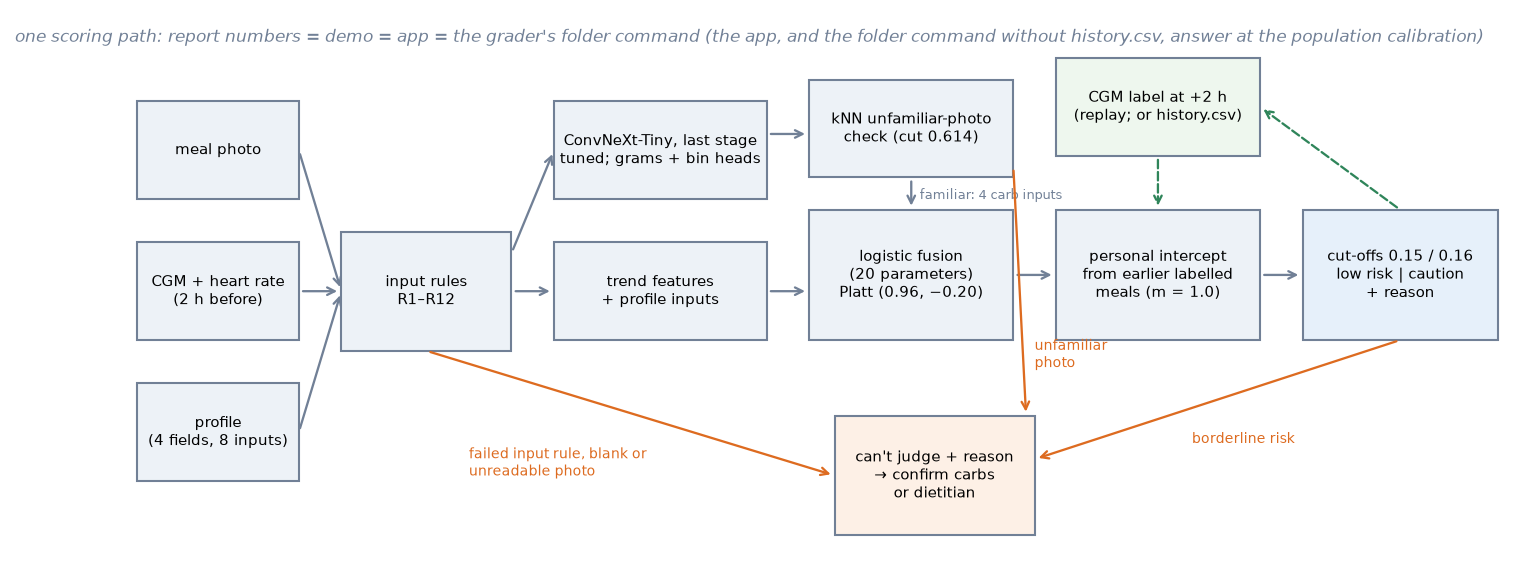
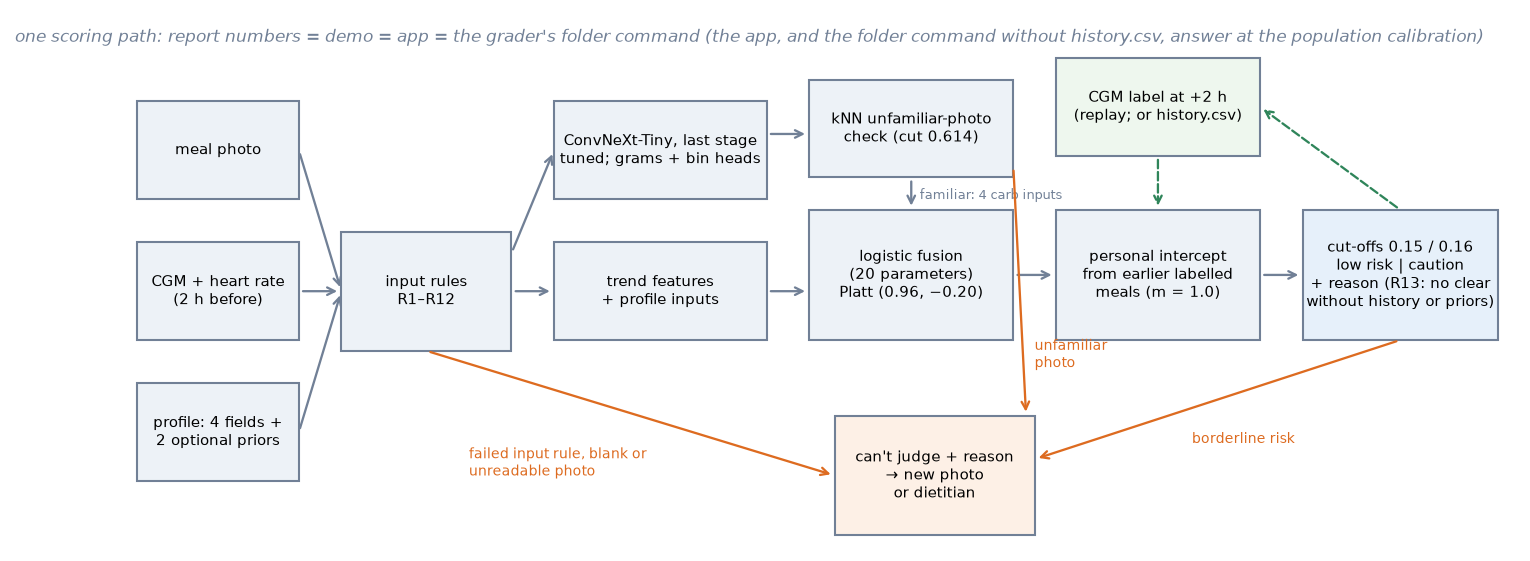
Rule R13: no low risk without history or onboarding priors (output rule, no artifact change); F1 labels
Claude-Session: https://claude.ai/code/session_01U1MwL7j11MLBZ4KUvxGUHV

Changed region(s): [[0.8601, 0.4242, 0.983, 0.5455], [0.0922, 0.7273, 0.1843, 0.8182], [0.5837, 0.8182, 0.6451, 0.8788]]

diff --git a/tests/test_serve.py b/tests/test_serve.py
@@ -272,7 +272,8 @@ def test_decision_parity_with_the_vectorised_rule():
     Pipeline.answer give the same decision meal by meal on clean inputs, across the whole risk range."""
     for risk in (0.05, 0.142, 0.143, 0.17, 0.2, 0.45, 0.95):
         p = bare_pipeline(risk=risk, table={0: _est()})
-        a = p.answer(MealInput(meal_time=MEAL, profile=PROFILE, **flat_cgm()), key=0)
+        priors = {**PROFILE, "prior_spike_rate": 0.3, "prior_rise": 40.0}  # R13 needs a personal basis to clear
+        a = p.answer(MealInput(meal_time=MEAL, profile=priors, **flat_cgm()), key=0)
         vec = "low risk" if a.risk < p.lo else "caution" if a.risk >= p.hi else "can't judge"
         assert a.decision == vec, (risk, a.decision, vec)
 
@@ -287,3 +288,18 @@ def test_serving_bundle_calibration_reaches_the_risk_path(tmp_path, monkeypatch)
     hist = [(0.3, 1), (0.1, 0)]
     a, b = injected.answer(m, key=7, history=hist), served.answer(m, key=7, history=hist)
     assert a.risk == b.risk and a.risk_platt == b.risk_platt and a.risk_raw == b.risk_raw
+
+
+def test_r13_withholds_low_risk_without_history_or_priors():
+    """Rule R13 end to end on the bare pipeline: the same low risk is cleared with priors or with history,
+    and referred (can't judge, named reason, risk kept) without either. Caution answers are untouched."""
+    p = bare_pipeline(risk=0.05, table={0: _est()})
+    bare = p.answer(MealInput(meal_time=MEAL, profile=PROFILE, **flat_cgm()), key=0)
+    assert bare.decision == "can't judge" and "rule R13" in bare.reason and bare.risk == 0.05
+    assert bare.checks_failed == ["personal_basis"] and bare.escalate_to == "human"
+    priors = {**PROFILE, "prior_spike_rate": 0.3, "prior_rise": 40.0}
+    assert p.answer(MealInput(meal_time=MEAL, profile=priors, **flat_cgm()), key=0).decision == "low risk"
+    hist = p.answer(MealInput(meal_time=MEAL, profile=PROFILE, **flat_cgm()), key=0, history=[(-2.0, 0)])
+    assert hist.decision == "low risk"
+    high = bare_pipeline(risk=0.45, table={0: _est()})
+    assert high.answer(MealInput(meal_time=MEAL, profile=PROFILE, **flat_cgm()), key=0).decision == "caution"

diff --git a/src/glimpse/figures.py b/src/glimpse/figures.py
@@ -38,15 +38,22 @@ def f1_system(plt) -> None:
 
     box(0.0, 3.0, 1.9, 0.9, "meal photo")
     box(0.0, 1.7, 1.9, 0.9, "CGM + heart rate\n(2 h before)")
-    box(0.0, 0.4, 1.9, 0.9, "profile\n(4 fields, 8 inputs)")
+    box(0.0, 0.4, 1.9, 0.9, "profile: 4 fields +\n2 optional priors")
     box(2.4, 1.6, 2.0, 1.1, "input rules\nR1\u2013R12")
     box(4.9, 3.0, 2.5, 0.9, "ConvNeXt-Tiny, last stage\ntuned; grams + bin heads")
     box(4.9, 1.7, 2.5, 0.9, "trend features\n+ profile inputs")
     box(7.9, 3.2, 2.4, 0.9, "kNN unfamiliar-photo\ncheck (cut 0.614)")
     box(7.9, 1.7, 2.4, 1.2, "logistic fusion\n(20 parameters)\nPlatt (0.96, \u22120.20)")
     box(10.8, 1.7, 2.4, 1.2, "personal intercept\nfrom earlier labelled\nmeals (m = 1.0)")
-    box(13.7, 1.7, 2.3, 1.2, "cut-offs 0.15 / 0.16\nlow risk | caution\n+ reason", fc="#e6f0fa")
-    box(8.2, -0.1, 2.35, 1.1, "can't judge + reason\n\u2192 confirm carbs\nor dietitian", fc="#fdf0e6")
+    box(
+        13.7,
+        1.7,
+        2.3,
+        1.2,
+        "cut-offs 0.15 / 0.16\nlow risk | caution\n+ reason (R13: no clear\nwithout history or priors)",
+        fc="#e6f0fa",
+    )
+    box(8.2, -0.1, 2.35, 1.1, "can't judge + reason\n\u2192 new photo\nor dietitian", fc="#fdf0e6")
     box(10.8, 3.4, 2.4, 0.9, "CGM label at +2 h\n(replay; or history.csv)", fc="#eef7ee")
     ax.text(12.4, 0.75, "borderline risk", fontsize=6.8, color=ORANGE)
     ax.text(3.9, 0.45, "failed input rule, blank or\nunreadable photo", fontsize=6.8, color=ORANGE)

diff --git a/tests/test_report_numbers.py b/tests/test_report_numbers.py
@@ -308,7 +308,8 @@ def test_status_table_timing_cusum_and_what_if(text, rm):
     sp = rm["served_imputed_priors"]
     row = t["no history and no onboarding priors (the samples' path; dev, approximate)"][2]
     assert row == (f"AUROC {sp['auroc']:.3f}; {sp['share_low_risk'] * 100:.1f}% cleared, {sp['n_missed']} of "
-                   f"{sp['n_cleared']} spike; cost {_pct(sp['cost_reduction'])} / –")  # fmt: skip
+                   f"{sp['n_cleared']} spike; cost {_pct(sp['cost_reduction'])} / –; with rule R13: 0 cleared, "
+                   f"{_pct(sp['with_rule_r13']['cost_reduction'])}")  # fmt: skip
     pc = _load("outputs/probes/probe_c.json")
     assert all(v["expected_direction_met"] for v in pc["inputs"].values())
     ip = pc["imputed_priors"]
@@ -374,3 +375,10 @@ def test_locked_decisions_follow_the_current_cut_off_rule():
     has = la.risk.notna()
     redecided = [decision(float(r), th["low_risk_below"], th["caution_from"]) for r in la.risk[has]]
     assert redecided == la.decision[has].tolist()
+
+
+def test_r13_cells(text, rm):
+    sp = rm["served_imputed_priors"]["with_rule_r13"]
+    assert sp["share_low_risk"] == 0
+    assert f"{sp['share_abstain'] * 100:.1f}% can't judge" in text
+    assert f"with rule R13: 0 cleared, {_pct(sp['cost_reduction'])}" in text

diff --git a/src/glimpse/serve/rules.py b/src/glimpse/serve/rules.py
@@ -72,6 +72,24 @@ def decision_reason(dec: str, risk: float, lo: float, hi: float) -> str:
     return f"risk {risk:.1%} is at or above the caution cut-off {hi:.0%}"
 
 
+PRIORS = ("prior_spike_rate", "prior_rise")
+
+
+def no_basis_to_clear(dec: str, history, profile: dict[str, float]) -> str | None:
+    """Rule R13 (26 Nov): a low-risk answer needs a personal basis, either earlier labelled meals (history)
+    or onboarding priors. Without both the risk is the population calibration alone, which on development
+    cleared 11% of meals with 16% of them spiking; such a meal is not cleared but referred, with this reason.
+    Returns the reason, or None when the rule does not apply. Changes no risk, weight or cut-off."""
+    if dec != "low risk" or history:
+        return None
+    if all(math.isfinite(float(profile.get(k, float("nan")))) for k in PRIORS):
+        return None
+    return (
+        "not cleared: no earlier labelled meals and no onboarding priors, so the risk rests on the "
+        "population alone (rule R13); add a history.csv or the onboarding priors, or ask a dietitian"
+    )
+
+
 def sentence(dec: str, risk: float | None, reason: str) -> str:
     """Plain words for the user."""
     if dec == "low risk":

diff --git a/tests/test_hardening.py b/tests/test_hardening.py
@@ -126,3 +126,17 @@ def test_window_reason_names_only_the_failing_criteria():
     assert reason == "glucose data incomplete: a gap of 35 min (max 20)"
     w = SimpleNamespace(values=np.full(24, 110.0), readings_last_30min=1, coverage=0.04, max_gap_min=115.0)
     assert window_problem(w, cfg).count("need") == 2 and "max 20" in window_problem(w, cfg)
+
+
+def test_r13_no_low_risk_without_history_or_priors():
+    """Rule R13 (26 Nov): low risk needs history or both onboarding priors; otherwise the meal is referred."""
+    from glimpse.serve.rules import no_basis_to_clear
+
+    bare = {"age": 45.0, "bmi": 28.0}
+    with_priors = {**bare, "prior_spike_rate": 0.3, "prior_rise": 40.0}
+    assert "rule R13" in no_basis_to_clear("low risk", None, bare)
+    assert "rule R13" in no_basis_to_clear("low risk", [], {**bare, "prior_spike_rate": 0.3})
+    assert "rule R13" in no_basis_to_clear("low risk", None, {**with_priors, "prior_rise": float("nan")})
+    assert no_basis_to_clear("low risk", None, with_priors) is None
+    assert no_basis_to_clear("low risk", [(-0.5, 1)], bare) is None
+    assert no_basis_to_clear("caution", None, bare) is None

diff --git a/src/glimpse/evaluation/report_metrics.py b/src/glimpse/evaluation/report_metrics.py
@@ -314,6 +314,17 @@ def served_imputed_priors(cfg, dev: pd.DataFrame, costs: dict) -> dict:
     risk[has] = 1 / (1 + np.exp(-lg))
     y = dev.spike.to_numpy().astype(int)
     out = _served(dev, risk, lo, hi, costs, cfg.targets.model_dump())
+    # rule R13 (26 Nov): no history and no priors -> a low-risk answer becomes can't judge
+    from glimpse.evaluation.metrics import usefulness_report
+    from glimpse.serve.rules import decision
+
+    dec = dev.decision.copy()
+    dec[has] = [decision(float(r), lo, hi) for r in risk[has]]
+    dec[dec == "low risk"] = "can't judge"
+    r13 = usefulness_report(dec.map(ACTION).to_numpy(), dev.spike.to_numpy().astype(int), costs,
+                            cfg.targets.model_dump())  # fmt: skip
+    out["with_rule_r13"] = {k: r13[k] for k in ("share_low_risk", "share_caution", "share_abstain", "cost",
+                                                "cost_reduction")}  # fmt: skip
     out.update(
         {
             "auroc": float(roc_auc_score(y[has], risk[has])),

diff --git a/src/glimpse/serve/pipeline.py b/src/glimpse/serve/pipeline.py
@@ -27,6 +27,7 @@ from glimpse.serve.rules import (
     decision,
     decision_reason,
     knn_distance,
+    no_basis_to_clear,
     photo_problem,
     profile_vector,
     sentence,
@@ -212,6 +213,10 @@ class Pipeline:
                               risk=risk, checks_passed=passed, checks_failed=["borderline"],
                               escalate_to="human", **base, **carb)  # fmt: skip
         passed.append("borderline")
+        hold = no_basis_to_clear(dec, history, m.profile)
+        if hold:  # rule R13: no low risk on the population calibration alone
+            return cant_judge(hold, risk=risk, checks_passed=passed, checks_failed=["personal_basis"],
+                              escalate_to="human", **base, **carb)  # fmt: skip
         reason = decision_reason(dec, risk, self.lo, self.hi)
         return Answer(decision=dec, sentence=sentence(dec, risk, reason), reason=reason, risk=risk,
                       checks_passed=passed, **base, **carb)  # fmt: skip

diff --git a/docs/final_report.md b/docs/final_report.md
@@ -21,7 +21,7 @@ samples are, clears 11% of development meals and 16% of those spike (§4). The n
 | ECE, registered bins (target ≤ 0.05) | 0.052: not assessable, a perfectly calibrated model's median here | 0.061, below that median (0.094); the one-shot record gave 0.098 equal-mass | 0.023 / 0.162 |
 | usefulness targets (protocol labels) | 1 met (can't judge), 3 on track: intervals cross | not met (at risk): 3 of 4 miss | not met: 2 of 4 miss / 2 of 4 miss |
 | spikes among cleared meals (cap 10%) | 7.3% (2.9–14.2%) | 2 of 10 (exact 2.5–55.6%; person bootstrap 0–100%) | 9.6% / 21.9% |
-| no history and no onboarding priors (the samples' path; dev, approximate) | – | – | AUROC 0.637; 11.4% cleared, 9 of 55 spike; cost −1.5% / – |
+| no history and no onboarding priors (the samples' path; dev, approximate) | – | – | AUROC 0.637; 11.4% cleared, 9 of 55 spike; cost −1.5% / –; with rule R13: 0 cleared, −0.3% |
 | robustness | flips between low risk and caution ≤1.8% at every registered level; 3.7% without heart rate | – | – |
 | monitoring | photo drift fires only on a synthetic week; the outcome rule is too noisy | no rule cleanly catches the cohort shift | – |
 
@@ -43,7 +43,7 @@ which the evaluation replays in deployment order. An optional `history.csv` per 
 answers' fusion logits and CGM labels) now feeds it through the same two-hour gate; the samples carry
 none. A profile without onboarding priors (every instructor case) gets training medians drawn from all 37
 non-locked people, type 2 diabetes included (spike rate 0.455, rise 48 mg/dL). Tooling: uv
-+ Python 3.14 (locked), strict Pydantic throughout, a `just` recipe for every number, 170 tests in CI (153 run without the dataset or weights; 16 skip, 1 expected failure),
++ Python 3.14 (locked), strict Pydantic throughout, a `just` recipe for every number, 173 tests in CI (156 run without the dataset or weights; 16 skip, 1 expected failure),
 W&B offline runs replayed from the committed training histories, and a git history (from 2 Nov; earlier
 ordering in the dated design docs) in which every pre-registration precedes its run.
 
@@ -265,14 +265,15 @@ far over its cap; at twice it, savings fall to 3.1% and missed-among-cleared ris
 *Served = the deployed cut-offs on the Platt-only risk, recomputed from the committed answers (dev: per-fold models; locked: frozen Platt on the frozen fusion's raw risk); nothing refitted or rescored. outputs/report_metrics/report_metrics.json (decisions, errors, served_operating_point, served_imputed_priors, share_cis), outputs/figures/figures.json (the dev miss interval), outputs/locked_eval/locked_summary.json.*
 
 In plain terms: of every 100 development meals the evaluated system (with history) clears 22.7, flags 63.6 and declines 13.7; of the
-cleared, about 7 still spike, visible to a dietitian since the CGM reports every outcome. Only 17 people
+cleared, about 7 still spike. Only 17 people
 had cleared meals, so the miss interval's upper end exceeds the cap; the 8 misses spread across 6 people. The frozen band (0.15, 0.16) is one point wide. On the locked cohort, where
 risks ran higher, 139 of 153 meals landed above it: a dietitian would see nearly every meal flagged, and
 always flagging is then the cheaper policy.
 Without history the served point (last column) fails two targets on development and misses 7 of 32 clears
 on the locked eight. The samples also lack onboarding priors: filled with the serving medians (development,
 frozen coefficients standing in for the fold models'), AUROC drops to 0.637 and 9 of 55 cleared meals
-spike, costlier than always flagging. Without history and priors no meal should be cleared. Abstention
+spike, costlier than always flagging. Rule R13 (26 Nov, after the locked run) therefore refers such meals
+instead of clearing them: no misses, 17.3% can't judge, the cost of always flagging. Abstention
 does not pay here. Deciding the 45 borderline development meals would have cost less (0.539 against 0.555
 per answered meal): they spiked at 27%, above the 20% at which abstaining beats caution at the declared
 prices, because risks just above the low cut are under-predicted. Abstaining on the meals closest to the
@@ -300,7 +301,7 @@ and a misstated meal time are steps by design. Flips between low risk and cautio
 below 1.8% at every level; with heart rate missing, 3.7%, the worst case. All stress runs use the
 no-history per-fold pipelines. The 23 hostile inputs (timezone offsets, malformed JSON, binary CSVs,
 broken photos, empty folders) give zero crashes; five refuse on a placeholder photo after parsing their CSV
-stressor. R1-R5 and R8-R12 were each added against an observed failure; tests enforce them.
+stressor. R1-R5 and R8-R13 were each added against an observed failure; tests enforce them.
 
 | monitoring signal (docs/monitoring.md) | demonstration | result |
 |---|---|---|
@@ -390,7 +391,7 @@ in-sample clears from 68 to 46 (outputs/probes/probe_c.json).
 Probe A: risk moves in the photo's direction on 100% of meals, which a linear fusion guarantees (a
 wiring check, not learning), yet the extreme bottom↔top-decile plate swap leaves 68.5% of decisions unchanged (median swing 0.102), as pre-committed: the gate's verdict seen
 mechanistically. R7 (rule ledger): the kNN check measures visual, not nutritional, familiarity. A local
-lamb-and-rice dish (instructor case 11) scores 0.318 against the 0.614 cut (more familiar than the clean tuna bowl at 0.406)
+lamb-and-rice dish (instructor case 11) scores 0.318 against the 0.614 cut
 and gets a confident wrong carb bin; the sweep under a ≤2% false-flag budget shows no threshold fixes it.
 The confirm-carbs tier is unwired, so the fix is a nutrition-aware embedding (future work).
 
@@ -447,7 +448,7 @@ regulatory review, built so that a clinical study could evaluate it.
 |---|---|
 | RQ1, RQ2 | the proposal's questions: does the photo match true logged carbs (RQ1); does a from-scratch CNN beat hand-made trend features (RQ2) |
 | D1-D8 | dated design decisions in docs/final_design.md (D7: the gate's endpoints; D8: the exact-macro exclusion test) |
-| R1-R12 | input rules in docs/rule_ledger.md: R1-R5 and R8-R12 added after observed failures, R6 a preventive check, R7 a recorded limitation |
+| R1-R13 | rules in docs/rule_ledger.md (R13 acts on the output: no low risk without history or priors): R1-R5 and R8-R13 added after observed failures, R6 a preventive check, R7 a recorded limitation |
 | T1-T8 | failure classes (§5) |
 | partition v2 | the final split: 23 development people in 5 outer folds, 14 T2D training-only, 8 locked |
 | cgm_auto | the CGM's own label at +2 h, the training spike rule |

diff --git a/docs/model_card.md b/docs/model_card.md
@@ -12,7 +12,8 @@ device. Not for type 1 diabetes, insulin dosing or treatment decisions. No claim
 those participants were used for training only.
 
 **Parts.** The model artifacts were frozen 6 Nov under a pre-registered procedure; the input rules gained R11 (8 Nov, with additions on 25 and 26 Nov) and R12 (26 Nov), which change wording and refusals, not risks.
-- Input rules R1-R12 run first and refuse with a named reason (docs/rule_ledger.md).
+- Input rules R1-R12 run first and refuse with a named reason; output rule R13 withholds low risk without
+  history or priors (docs/rule_ledger.md).
 - Photo: ConvNeXt-Tiny (ImageNet-22k pre-trained, 1k fine-tuned; pinned revision and SHA-256), last stage
   fine-tuned, two heads (grams, 4 carb bins); 27.8M parameters, 15.5M fine-tuned. It did not pass its
   pre-registered risk gate (+0.025 AUROC, −0.010 to +0.061), yet its estimate is 4 of the fusion's 19
@@ -25,8 +26,8 @@ those participants were used for training only.
   without it, and in the app, answers use the population calibration (Platt only). Without history,
   development clears 15.2% of meals with 9.6% of them spiking (cost reduction 8.7%), failing two targets. A
   profile without onboarding priors (every sample) gets the training medians (0.455, 48 mg/dL); with that
-  too, approximated on development, AUROC is 0.637 and 9 of 55 cleared meals spike (cost −1.5%): do not
-  clear meals without history and priors.
+  too, approximated on development, AUROC is 0.637 and 9 of 55 cleared meals spike (cost −1.5%), so rule
+  R13 (26 Nov) answers can't judge instead of low risk when there is neither history nor both priors.
 - SensorCNN (5,217 parameters, from scratch) is evaluated, not deployed: it ties the trend features.
 
 **Training data.** CGMacros v1.0.0 (PhysioNet, CC BY-NC-SA 4.0): 37 non-locked adults (23 healthy or

diff --git a/docs/rule_ledger.md b/docs/rule_ledger.md
@@ -147,5 +147,18 @@ reading at or below zero refuses first, with "a glucose reading is zero or negat
 The decision (can't judge) is unchanged; only the advice changes. The committed stress run keeps the old text.
 Same day, wording only: an incomplete-window refusal now names only the criteria that failed.
 
+## R13 - no low risk without a personal basis (26 Nov, after the locked run; an output rule)
+Observed: the samples carry neither history nor onboarding priors. Recomputed on development (frozen
+fusion's prior coefficients standing in for the fold models; report_metrics.json `served_imputed_priors`),
+that path clears 11.4% of meals and 9 of the 55 spike (16.4%, over the 10% cap), costing more than always
+flagging. Rule: a low-risk answer with no earlier labelled meals and either onboarding prior missing becomes
+can't judge, with a reason naming what would allow a clear (a history.csv, the priors) and a referral.
+Before/after on the same approximation: clears 55 -> 0, misses 9 -> 0, can't judge 5.8% -> 17.3%, cost
+reduction -1.5% -> -0.3%. No risk, weight, Platt map or cut-off changes; the evaluated (with-history) and
+locked answers all carry priors, so no reported decision changes (a test re-decides the locked answers).
+Before (a no-prior, no-history meal at risk 0.12): "low risk". After: "can't judge: not cleared: no earlier
+labelled meals and no onboarding priors ... (rule R13)". Unit test: tests/test_hardening.py. Not run end
+to end with the weights on this machine; the committed folder, stress and demo runs predate it.
+
 Provenance note (26 Nov): commit hashes cited above for R1-R7 (4c72a62, 5e01186, 71abb13) predate the 2 Nov squash
 and do not resolve in this repository; the dated ledger text is the record for those rules.

diff --git a/docs/changelog.md b/docs/changelog.md
@@ -158,3 +158,5 @@ author's standing instruction, not approved one by one.
 | Promised comparisons table (class weighting, label threshold, masked photo); served-decision CUSUM row; "trend + profile LR" naming; dev verdict "1 met, 3 on track"; T1 count 7 of 13; "evaluated system (with history)"; 150 scored locked meals; locked path "at the tag" | omissions and inconsistencies (1-3 of 3) | report §3-§6 |
 | Test: today's decision function reproduces every committed locked decision at the frozen cut-offs (nothing rescored) | the post-tag serving changes needed a check against the locked answers (1 of 3) | tests/test_report_numbers.py |
 | R7 mitigation sentence no longer cites the unwired confirm-carbs tier; abstention next step says "a new photo" | the escalation named a surface that does not exist (2 of 3) | report §1, §5 |
+| Rule R13 (output rule): no low risk without history or both onboarding priors; the meal is referred with a named reason. On the samples' path (dev, approximate) clears 55 -> 0, misses 9 -> 0, can't judge 17.3%, cost -0.3%. No risk, weight, Platt map or cut-off changed; evaluated and locked answers all carry priors, and a test re-decides the locked answers unchanged. Unit and bare-pipeline tests; not run end to end with weights | the report said no meal should be cleared on that path while the code cleared 11% (3 of 3) | src/glimpse/serve/rules.py, pipeline.py; docs/rule_ledger.md; tests/test_serve.py |
+| Figure 1: R13 in the cut-off box, "new photo or dietitian", profile with optional priors | stale labels (2 of 3) | outputs/figures/f1_system.png |
